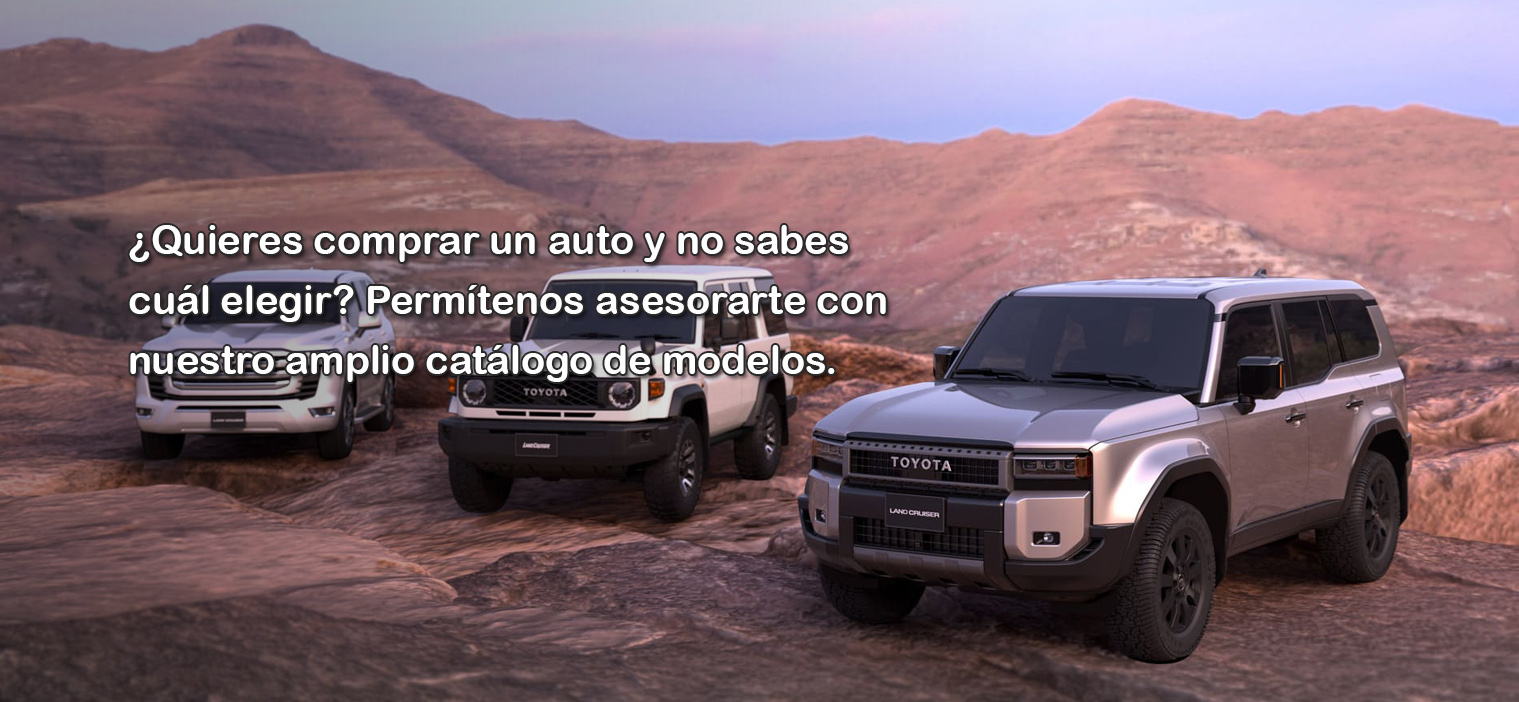
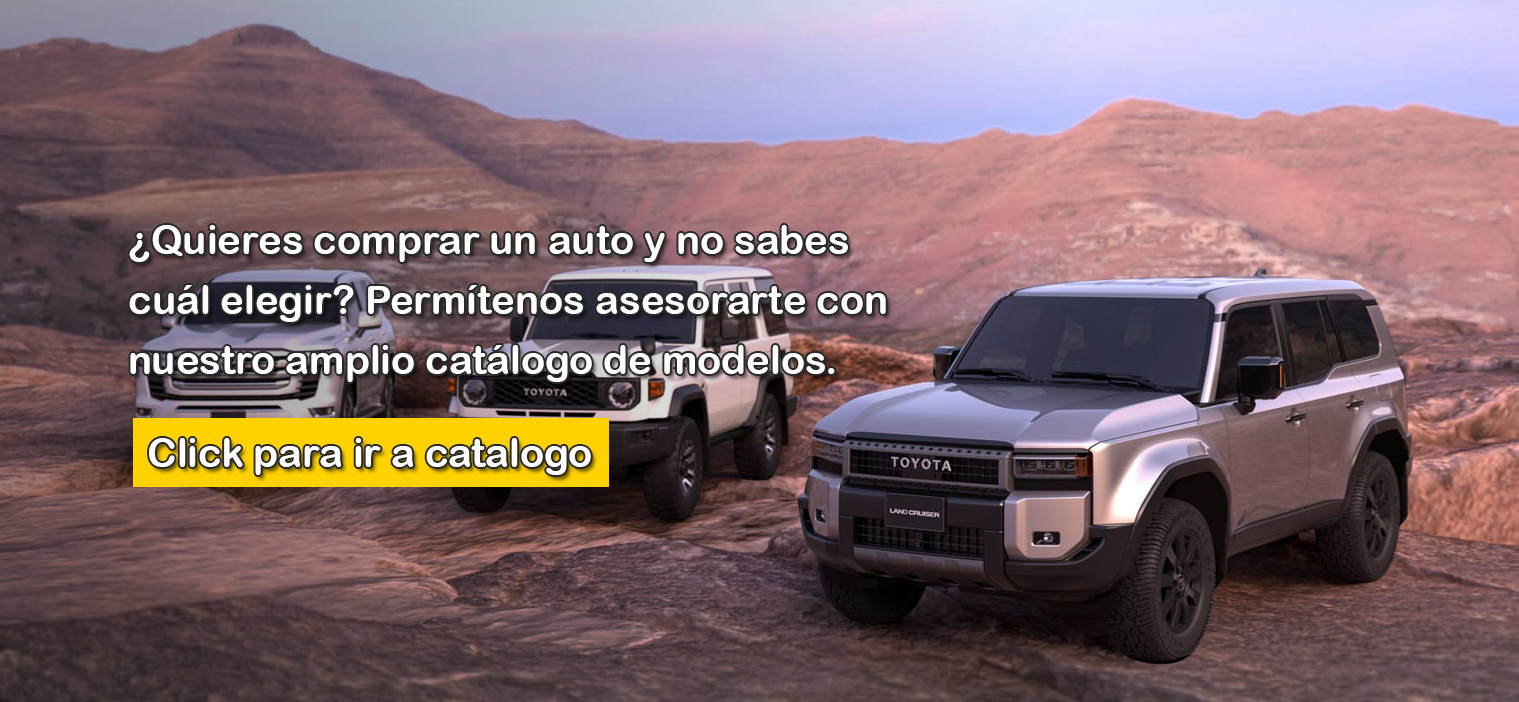
avance

Changed region(s): [[0.0619, 0.5983, 0.4022, 0.7179]]

diff --git a/src/app/components/inicio/inicio.component.html b/src/app/components/inicio/inicio.component.html
@@ -1,17 +1,18 @@
+<div class="arregloNav"></div>
 <section class="mt-0">
     <div id="carouselExampleInterval" class="carousel slide carrusel" data-bs-ride="carousel">
         <div class="carousel-inner">
             <div class="carousel-item active" data-bs-interval="3000">
-                <img src="/Img/nuevasImagenes/carrusel1prueba.jpg" class="imagen-carrusel">
-                <button type="button" class="btn btn-warning boton1 fs-4 fw-medium" routerLink="/catalogo">Ir al catálogo</button>
+                <img src="/Img/nuevasImagenes/carrusel1prueba.jpg" routerLink="/catalogo" class="imagen-carrusel">
+
             </div>
             <div class="carousel-item" data-bs-interval="3000">
-                <img src="/Img/nuevasImagenes/carrusel2prueba.jpg" class="imagen-carrusel">
-                <button type="button" class="btn btn-primary boton2 fs-4 fw-medium" routerLink="/comparativa">Ir a la comparativa</button>
+                <img src="/Img/nuevasImagenes/carrusel2prueba.jpg" routerLink="/comparativa" class="imagen-carrusel">
+
             </div>
             <div class="carousel-item" data-bs-interval="3000">
-                <img src="/Img/nuevasImagenes/carrusel3prueba.jpg" class="imagen-carrusel">
-                <button type="button" class="btn btn-danger boton3 fs-4 fw-medium" routerLink="/contacto">Ir a contacto</button>
+                <img src="/Img/nuevasImagenes/carrusel3prueba.jpg" routerLink="/contacto" class="imagen-carrusel">
+
             </div>
         </div>
         <button class="carousel-control-prev carruselBoton carruselBotonAnterior" type="button" data-bs-target="#carouselExampleInterval" data-bs-slide="prev">

diff --git a/src/app/components/inicio/inicio.component.css b/src/app/components/inicio/inicio.component.css
@@ -1,4 +1,4 @@
-body{
+body {
     overflow-x: hidden;
 }
 
@@ -15,35 +15,34 @@ h3 {
     background-color: rgba(53, 53, 53, 0.8);
 }
 
-.imagen-carrusel{
-    width: 1519.2px;
-    height: 703px;
+.imagen-carrusel {
+    width: 100%; /* Ajusta al 100% del contenedor */
+    max-width: 1519.2px; /* Limita el tamaño máximo de la imagen en pantallas grandes */
+    height: auto; /* Ajusta la altura automáticamente para mantener la proporción */
+    object-fit: cover; /* Asegura que la imagen cubra el espacio sin distorsionarse */
+    position: relative; /* Para que los botones se posicionen relativamente a la imagen */
+}
+
+.imagen-carrusel:hover{
+    cursor: pointer;
 }
 
 .carruselBoton {
     width: 8% !important;
 }
 
-.boton1 {
-    position: absolute;
-    top: 400px;
-    left: 130px;
-    width: 200px;
-    height: 65px;
+.arregloNav{
+    display: none;
 }
 
-.boton2{
-    position: absolute;
-    top: 445px;
-    left: 1127px;
-    width: 250px;
-    height: 65px;
-}
+/* Ajustes responsivos */
+@media (max-width: 768px) {
+    .imagen-carrusel {
+        width: 100%;
+        height: auto;
+    }
 
-.boton3{
-    position: absolute;
-    top: 445px;
-    left: 155px;
-    width: 250px;
-    height: 65px;
+    .arregloNav{
+        display: block;
+    }
 }
